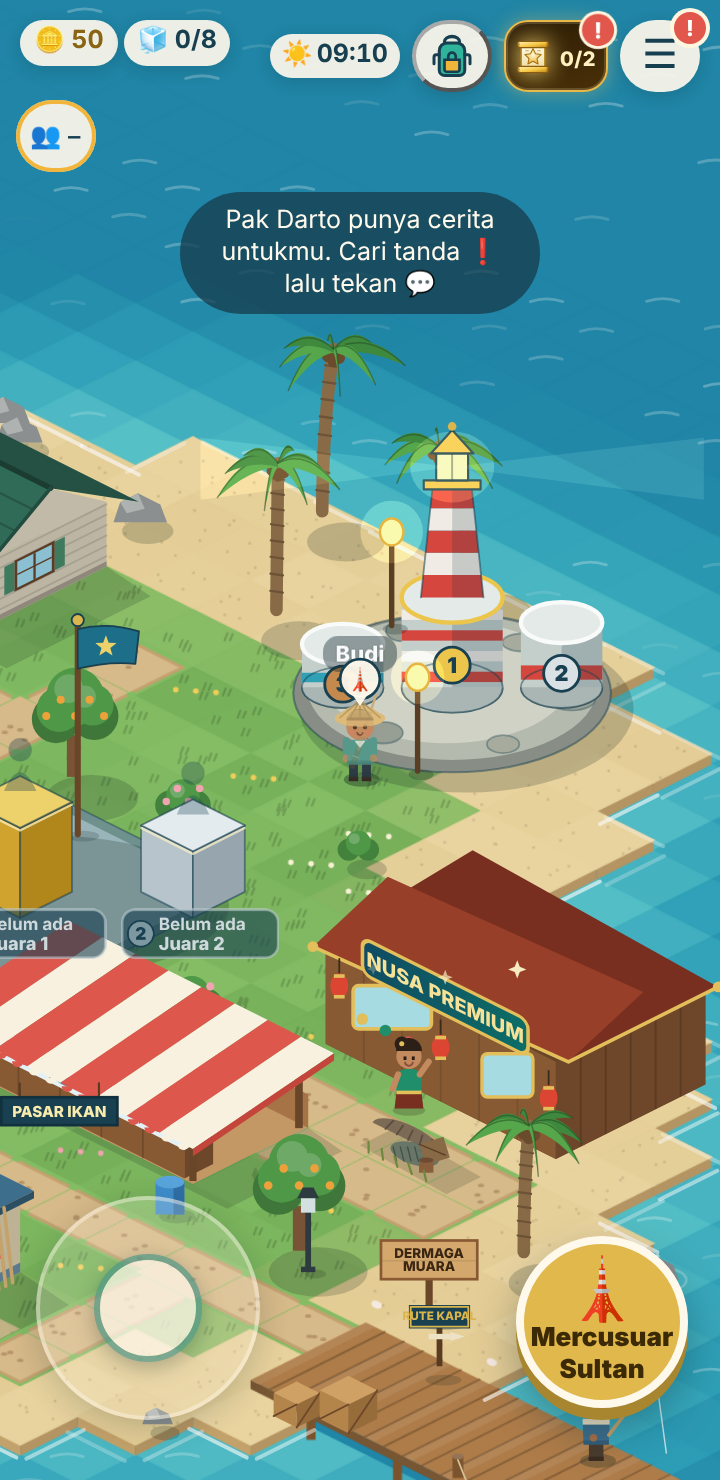
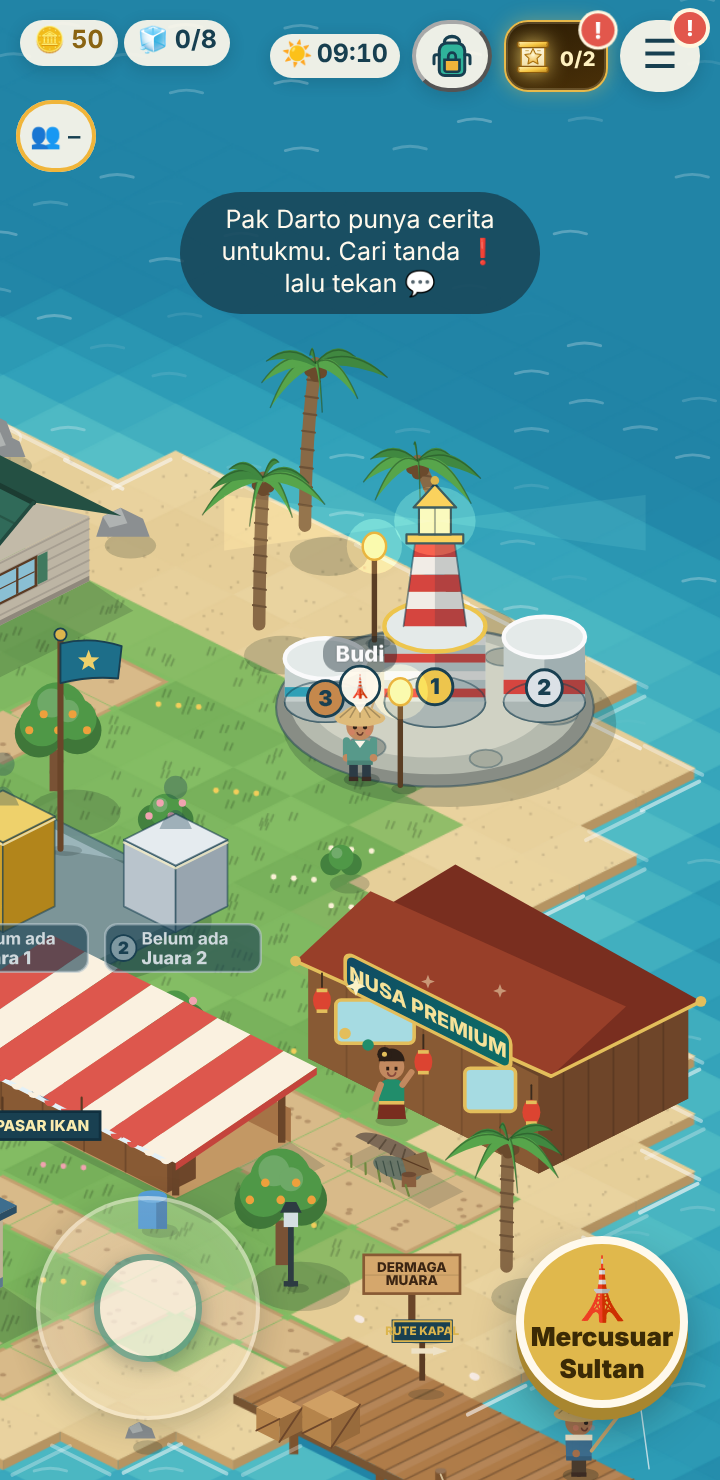
fix(sultan): atap Mercusuar tidak menyentuh HUD di landscape 740x360 (tanpa pengecualian tes); kontrak backend dari fixture asli
Claude-Session: https://claude.ai/code/session_01HzrTpEtUrWmkd26RHnYqpj

diff --git a/tests/unit-sultan.js b/tests/unit-sultan.js
@@ -76,4 +76,14 @@ t("manifest rilis, build-hosting, index.html, game.js, muara.js memuat Sultan Sa
   const idx = fs.readFileSync(path.join(ROOT, "index.html"), "utf8"); assert.ok(idx.indexOf("sultan/core.js") > 0 && idx.indexOf("sultan/core.js") < idx.indexOf("sultan/client.js") && idx.indexOf("sultan/client.js") < idx.indexOf('src="game.js"'));
   assert.ok(/NW\.sultan\.hook\(\)/.test(fs.readFileSync(path.join(ROOT, "game.js"), "utf8"))); assert.ok(/t\.id === "sultan"/.test(fs.readFileSync(path.join(ROOT, "world/areas/muara.js"), "utf8")));
 });
+// ---- kontrak dengan backend (PR #54): respons ASLI worker/sultan.js direkam ke fixture (saklar OFF, ON, tanpa D1, D1 galat) ----
+t("kontrak backend: fixture respons asli worker dipahami klien (ok / inactive / unavailable, me, prefs)", () => {
+  const F = JSON.parse(fs.readFileSync(path.join(__dirname, "fixtures/sultan-backend-contract.json"), "utf8"));
+  assert.deepStrictEqual(Core.normalize(F.off[0]), { status: "inactive", entries: [] }); assert.strictEqual(Core.normalizeMe(F.off[1]), null); assert.strictEqual(F.off[2].status, "inactive");
+  const m = Core.normalize(F.top); assert.strictEqual(m.status, "live"); assert.deepStrictEqual(m.entries.map((e) => [e.rank, e.points, e.title]), [[1, 60, "Sultan Samudra"], [2, 40, "Saudagar Laut"], [3, 30, "Saudagar Laut"]]);
+  assert.deepStrictEqual(Object.keys(F.top.entries[0]).sort(), ["name", "points", "rank", "title"], "server hanya mengirim 4 bidang publik");
+  assert.deepStrictEqual(Core.normalizeMe(F.me), { points: 60, title: "Sultan Samudra", anon: false }); assert.ok(F.prefs.status === "ok" && typeof F.prefs.anon === "boolean");
+  for (const r of [F.nodb[0], F.nomig]) assert.strictEqual(Core.normalize(r).status, "unavailable");
+  assert.strictEqual(Core.normalizeMe(F.nodb[1]), null); assert.notStrictEqual(F.nodb[2].status, "ok");
+});
 console.log(`unit-sultan: ${pass} lolos, ${fail} gagal`); process.exit(fail ? 1 : 0);

diff --git a/sultan/client.js b/sultan/client.js
@@ -14,10 +14,10 @@ const cloud = () => NW.cloud, loggedIn = () => !!(cloud() && cloud().enabled && 
 const C = { x: 21.6, y: 8.1 }, LIFT = 6;
 const DRUMS = [                                                   // urutan layar kiri→kanan: #3, #1 (tengah, menara), #2
   { rank: 3, dx: -0.95, dy: 0.95, h: 24, band: "#2fa3b8", medal: "#c98a4b" },
-  { rank: 1, dx: 0, dy: 0, h: 50, band: null, medal: "#f2c94c" },
+  { rank: 1, dx: 0, dy: 0, h: 42, band: null, medal: "#f2c94c" },
   { rank: 2, dx: 0.95, dy: -0.95, h: 36, band: "#d9453d", medal: "#dfe6ea" },
 ];
-const POINT = { id: "sultan", x: C.x + 0.8, y: C.y + 2.4, r: 1.8, icon: "🗼", label: "Mercusuar Sultan" };
+const POINT = { id: "sultan", x: C.x + 0.7, y: C.y + 2.0, r: 1.8, icon: "🗼", label: "Mercusuar Sultan" };
 const OBJ = { kind: "sultan", x: C.x, y: C.y, big: 210, dz: 0.9 };
 const SOLIDS = DRUMS.map((d) => ({ x: C.x + d.dx, y: C.y + d.dy, r: d.rank === 1 ? 0.72 : 0.55 }));
 
@@ -90,7 +90,7 @@ function drawSultan(c, o, t, night) {
     if (main) tower = r;
   }
   // menara mercusuar di atas tabung #1: kerucut terpancung pita merah-putih, galeri emas, ruang lentera, atap emas
-  const tx = tower.tp.x, ty = tower.tp.y, th = 62, wB = tower.rx * 0.62, wT = wB * 0.62;
+  const tx = tower.tp.x, ty = tower.tp.y, th = 48, wB = tower.rx * 0.62, wT = wB * 0.62;
   const yAt = (k) => ty - th * k, wAt = (k) => wB + (wT - wB) * k;
   for (let k = 0; k < 5; k++) { const k0 = k / 5, k1 = (k + 1) / 5; c.fillStyle = k % 2 ? "#f6f1ea" : "#d9453d"; c.beginPath(); c.moveTo(tx - wAt(k0), yAt(k0)); c.lineTo(tx + wAt(k0), yAt(k0)); c.lineTo(tx + wAt(k1), yAt(k1)); c.lineTo(tx - wAt(k1), yAt(k1)); c.closePath(); c.fill(); }
   c.fillStyle = "rgba(15,50,64,.18)"; c.beginPath(); c.moveTo(tx, yAt(0)); c.lineTo(tx + wAt(0), yAt(0)); c.lineTo(tx + wAt(1), yAt(1)); c.lineTo(tx, yAt(1)); c.closePath(); c.fill();

diff --git a/tests/browser/test_sultan.py b/tests/browser/test_sultan.py
@@ -128,14 +128,14 @@ def main():
               const HW=NW.TW/2,HH=NW.TH/2,K={rx:Math.SQRT2*HW,ry:Math.SQRT2*HH};
               const sc=(x,y,z)=>{const p=NW.P(x,y,z);return {x:(p.x-cam.x)*Z+W/2+cv.left,y:(p.y-cam.y)*Z+H/2+cv.top}};
               const bb=(C,hw,top,bot)=>{const g=sc(C.x,C.y,6);return {l:g.x-hw*K.rx*Z,r:g.x+hw*K.rx*Z,t:g.y-top*Z,b:g.y+bot*Z}};
-              const S=bb(NW.sultan.C,2.1,150,K.ry*2.1+16), PD=bb(NW.podium.C,2.1,140,K.ry*2.1+30);
+              const S=bb(NW.sultan.C,2.1,127,K.ry*2.1+16), PD=bb(NW.podium.C,2.1,140,K.ry*2.1+30);
               const R=(el)=>{const q=el&&el.getBoundingClientRect();return q&&q.width?{l:q.left,r:q.right,t:q.top,b:q.bottom}:null};
               const hit=(a,b)=>!!a&&!!b&&a.l<b.r&&a.r>b.l&&a.t<b.b&&a.b>b.t;
               const hud=[...document.querySelectorAll('.hud-left>*,.hud-right>*')].map(R).filter(Boolean);
-              return {S,joy:R(document.getElementById('joy')),act:R(document.getElementById('actBtn')),hudHit:hud.some(h=>hit(innerHeight<500?Object.assign({},S,{t:S.t+28}):S,h)),joyHit:hit(S,R(document.getElementById('joy'))),actHit:hit(S,R(document.getElementById('actBtn'))),podHit:hit(S,PD),
+              return {S,joy:R(document.getElementById('joy')),act:R(document.getElementById('actBtn')),hudHit:hud.some(h=>hit(Object.assign({},S,{t:S.t-4}),h)),joyHit:hit(S,R(document.getElementById('joy'))),actHit:hit(S,R(document.getElementById('actBtn'))),podHit:hit(S,PD),
                 inView:S.l>=0&&S.r<=innerWidth&&S.b<=innerHeight+0&&S.t>=-60,W:innerWidth,H:innerHeight,joyVisible:!!R(document.getElementById('joy'))}})()""")
             tag = f"{vp[0]}x{vp[1]}"
-            ok(f"G1 [{tag}] objek tidak menutup joystick", not r["joyHit"], r["joy"]); ok(f"G2 [{tag}] objek tidak menutup HUD atas (koin/jam/tas/misi/menu; layar landscape: kecuali 28px ujung atap lentera)", not r["hudHit"], r["S"])
+            ok(f"G1 [{tag}] objek tidak menutup joystick", not r["joyHit"], r["joy"]); ok(f"G2 [{tag}] objek tidak menutup HUD atas (koin/jam/tas/misi/menu, semua ukuran layar termasuk landscape 740x360)", not r["hudHit"], r["S"])
             ok(f"G3 [{tag}] objek tidak menutup tombol aksi", not r["actHit"], r["act"]); ok(f"G4 [{tag}] objek tidak bertumpuk dengan Podium Pemancing di layar", not r["podHit"], r["S"])
             ok(f"G5 [{tag}] objek utuh di dalam layar saat pemain di titik interaksi", r["inView"], r["S"])
             G.click("#actBtn"); time.sleep(0.8)
